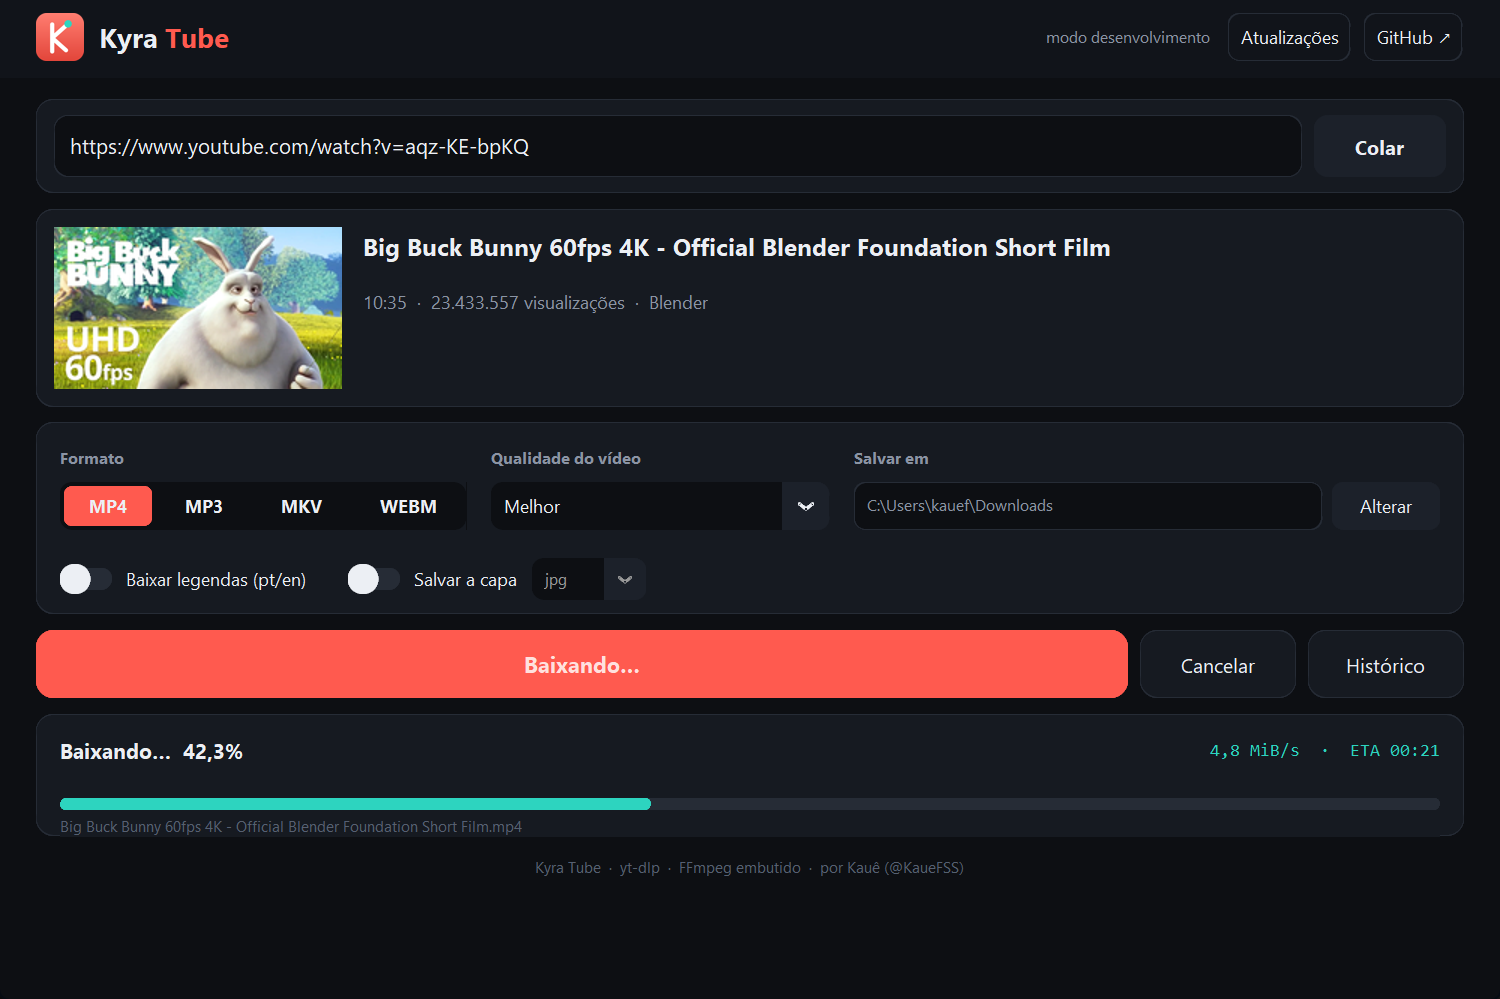
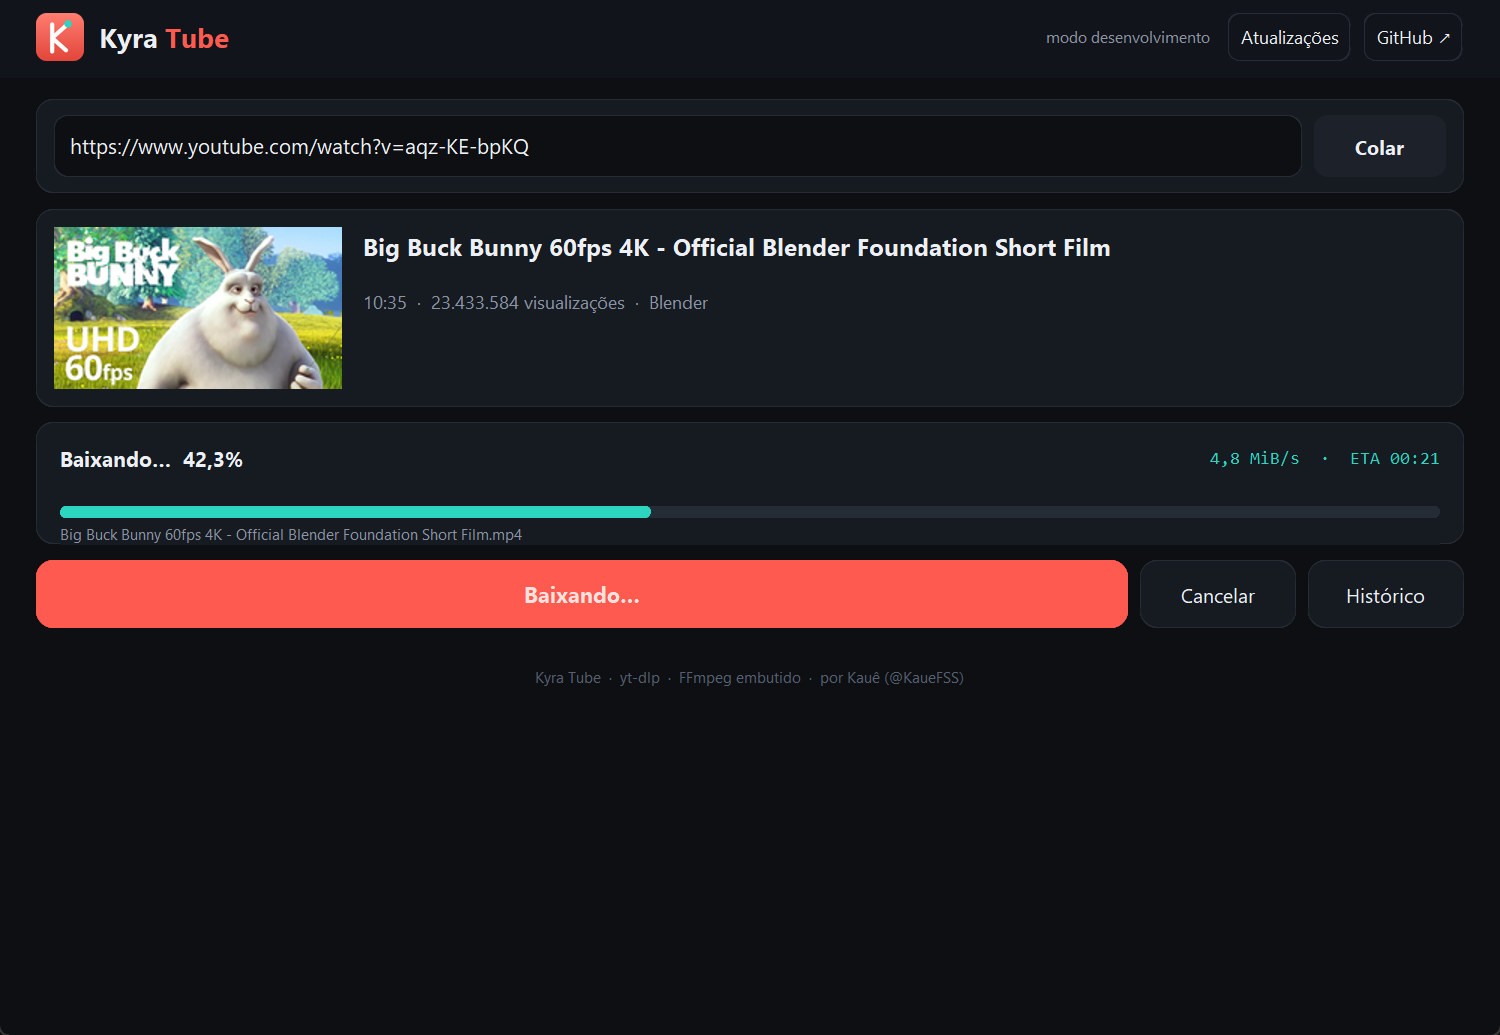
README e prints dos novos estados
Mostra o download em andamento, o aviso de vídeo já baixado e a janela que explica o problema.

diff --git a/README.md b/README.md
@@ -47,7 +47,27 @@ Por baixo, usa o [yt-dlp](https://github.com/yt-dlp/yt-dlp) para obter e baixar 
 - **Prévia** com título, duração, visualizações e canal antes de baixar
 - **Progresso** por vídeo e da playlist inteira, com velocidade
 - **Histórico** dos downloads
+- **Avisa quando o vídeo já estava baixado**, em vez de fingir que baixou em 0 segundos
+- **Explica os problemas** (vídeo privado, bloqueado, YouTube pedindo confirmação, internet instável) e diz o que tentar
 - **Atualização automática**, com aviso e barra de progresso, sem janela de terminal
+
+## Quando algo dá errado
+
+Alguns vídeos simplesmente não podem ser baixados (privados, só para membros, bloqueados por direitos autorais ou por região), e às vezes o YouTube bloqueia a sua conexão por um tempo. Em vez de uma mensagem técnica em inglês, o app diz **o que aconteceu, por que costuma acontecer e o que tentar**, na ordem (como reiniciar o roteador para trocar o IP, que resolve muitos desses casos).
+
+<div align="center">
+<img src="docs/screenshots/erro.png" alt="Janela que explica o problema e lista o que tentar" width="62%" />
+</div>
+
+<br />
+
+Quando o arquivo já está na pasta, o app avisa e não baixa de novo:
+
+<div align="center">
+<img src="docs/screenshots/ja-baixado.png" alt="Aviso de que o vídeo já estava baixado" width="80%" />
+</div>
+
+<br />
 
 ## Privacidade
 
@@ -109,18 +129,20 @@ core/                    Lógica, sem interface
   config.py              Nome, versão e endereço das releases
   downloader.py          Opções e execução do yt-dlp
   updater.py             Consulta, download, SHA-256 e instalação da atualização
+  errors.py              Traduz os erros do yt-dlp para o que fazer
   history.py             Histórico (migra o arquivo da época do OffTube)
   setup.py               Dependências, FFmpeg e caminhos
 ui/                      Interface (CustomTkinter)
   app.py                 Janela principal
   update_banner.py       Aviso de atualização
+  error_dialog.py        Janela com o que aconteceu e o que fazer
   preview.py             Prévia do vídeo/playlist
   playlist_window.py     Escolha dos vídeos da playlist
   history_window.py      Janela do histórico
   progress_hooks.py      Progresso do download
 installer/               Script do instalador (Inno Setup)
-scripts/                 build.ps1, release.py, screenshots.py
-tests/                   Testes do atualizador e do histórico
+scripts/                 build.ps1, release.py, screenshots.py, smoke_download.py, smoke_ui.py
+tests/                   Testes do atualizador, do histórico e das mensagens de erro
 .github/workflows/       Testes e publicação das versões
 ```
 
